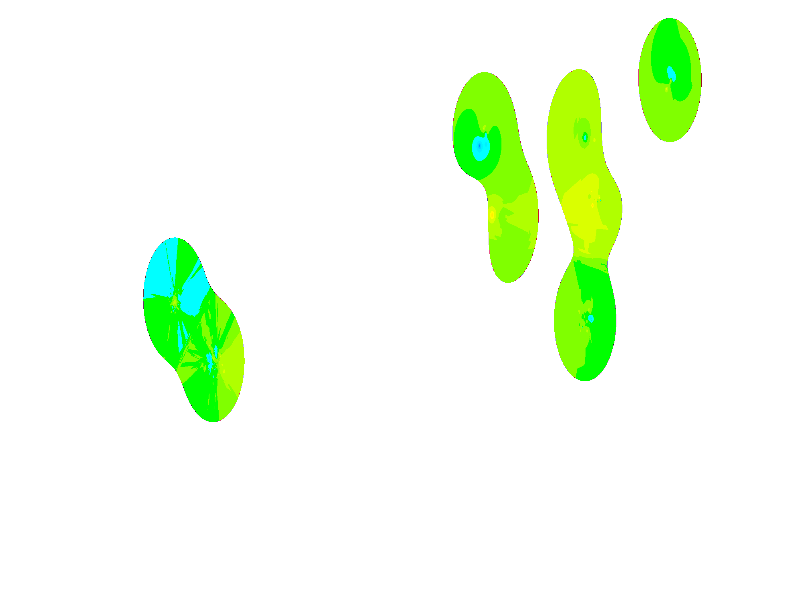
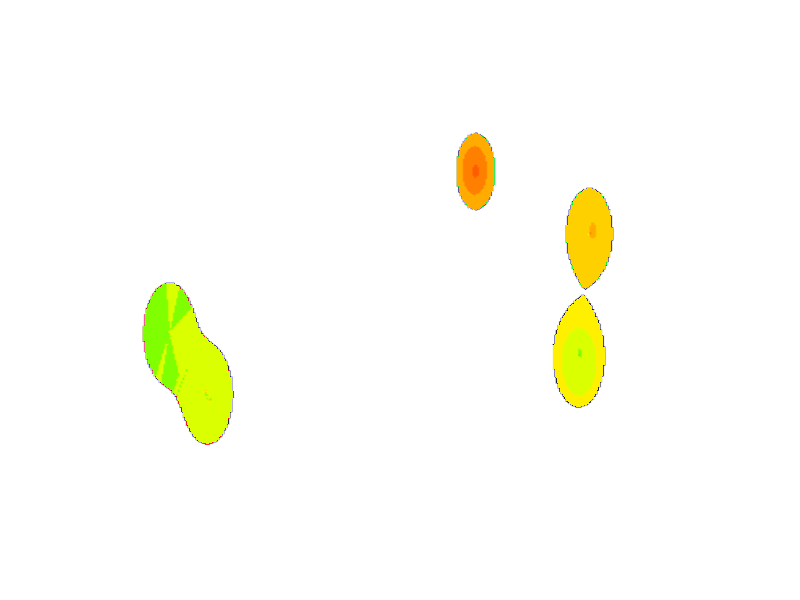
Added support for category search and talking with dynamodb

Changed region(s): [[0.5625, 0.12, 0.7812, 0.69], [0.1562, 0.39, 0.3125, 0.75], [0.7812, 0.03, 0.875, 0.24]]

diff --git a/django_basic/mysite/yelpviz/templates/yelpviz/map.html b/django_basic/mysite/yelpviz/templates/yelpviz/map.html
@@ -48,18 +48,18 @@
         // the bounds of the image, and a reference to the map.
         overlay = new USGSOverlay(bounds, srcImage, window.map);
 
-    	// Adding a marker on Las Vegas
-    	//var myLatlng = new google.maps.LatLng(36.125,-115.175);	 
-           	//var contentString = 'Las Vegas, NV';
-    	//var infowindow = new google.maps.InfoWindow({
-    	//	content: contentString
-    	//});
+    	// // Adding a marker on Las Vegas
+    	// var myLatlng = new google.maps.LatLng(36.125,-115.175);	 
+     //       	var contentString = 'Las Vegas, NV';
+    	// var infowindow = new google.maps.InfoWindow({
+    	// 	content: contentString
+    	// });
     	
-    	//var marker = new google.maps.Marker({
-    	//	position: myLatlng,
-    	//	map: window.map,
-    	//	title: 'Las Vegas'
-    	//});
+    	// var marker = new google.maps.Marker({
+    	// 	position: myLatlng,
+    	// 	map: window.map,
+    	// 	title: 'Las Vegas'
+    	// });
     	//google.maps.event.addListener(marker, 'click', function(){
     	//	infowindow.open(window.map,marker);
     	//)};
@@ -168,6 +168,26 @@
           <select class="form-control" name="business">
             <option value="McDonald''s">McDonald's</option>
             <option value="Supercuts">Supercuts</option>
+          </select>
+          <select class="form-control" name="scale">
+            <option value="0.5">0.5</option>
+            <option value="0.75">0.75</option>
+            <option value="1.0">1.0</option>
+          </select>
+        </div>
+        <button type="submit" class="btn btn-default">Submit</button>
+      </form>
+      <p class="navbar-text">Select Business Category</p>
+      <form class="navbar-form navbar-left" role="search" action="/yelpviz/csearch" method="GET">
+        <div class="form-group">
+          <select class="form-control" name="business_category">
+            <option value="McDonald''s">McDonald's</option>
+            <option value="Supercuts">Supercuts</option>
+          </select>
+          <select class="form-control" name="scale">
+            <option value="0.5">0.5</option>
+            <option value="0.75">0.75</option>
+            <option value="1.0">1.0</option>
           </select>
         </div>
         <button type="submit" class="btn btn-default">Submit</button>

diff --git a/django_basic/mysite/yelpviz/views.py b/django_basic/mysite/yelpviz/views.py
@@ -2,6 +2,7 @@ from django.http import HttpResponse
 from django.shortcuts import render
 from django.shortcuts import render_to_response
 import sys
+from dynamo_connect import Dynamo
 
 import os
 os.environ['LD_LIBRARY_PATH'] = '/usr/lib/oracle/11.2/client64/lib/'
@@ -16,10 +17,25 @@ rds_port =     1521
 rds_dsn =      cx_Oracle.makedsn(rds_host, 1521, rds_sid)
 rds_conn_str = rds_username + '/' + rds_password + '@' + rds_dsn
 
-def index(request):
+def bsearch(request):
 	#how to access form data
 	if request.method == 'GET':
 		print request.GET.get('business')
+		print request.GET.get('scale')
+	
+	#logic for connecting to the dynamodb and getting the image
+	dydb = Dynamo()
+	#hash_key will be business name, range_key is scaling factor
+	heat_map = dydb.get_map(table='Business', hash_key='1', range_key='0.5')
+	if heat_map == None:
+		#code for generating map on the fly and adding map to dynamo
+		#need to turn the map generation code into a class with a method for this
+		#someone else who is more familiar with that code should do this - Dave
+		print "hi"
+	else:
+		f = open('/home/ec2-user/yelp_data_visualization/django_basic/mysite/yelpviz/static/yelpviz/tmp.png', 'wb')
+		f.write(heat_map)
+		f.close()
 
 	#con = cx_Oracle.connect(rds_conn_str)
 	#ur = con.cursor()
@@ -36,6 +52,28 @@ def index(request):
 	#return HttpResponse(resp)
 	return render_to_response("yelpviz/map.html")
 
+def csearch(request):
+	#how to access form data
+	if request.method == 'GET':
+		print request.GET.get('business_category')
+		print request.GET.get('scale')
+	
+	#logic for connecting to the dynamodb and getting the image
+	dydb = Dynamo()
+	#hash_key will be business name, range_key is scaling factor
+	heat_map = dydb.get_map(table='Business_Category', hash_key='1', range_key='0.5')
+	if heat_map == None:
+		#code for generating map on the fly and adding map to dynamo
+		#need to turn the map generation code into a class with a method for this
+		#someone else who is more familiar with that code should do this - Dave
+		print "hi"
+	else:
+		f = open('/home/ec2-user/yelp_data_visualization/django_basic/mysite/yelpviz/static/yelpviz/tmp.png', 'wb')
+		f.write(heat_map)
+		f.close()
+
+	#return HttpResponse(resp)
+	return render_to_response("yelpviz/map.html")
 
 def home(request):
 	return render_to_response("yelpviz/map.html")

diff --git a/django_basic/mysite/yelpviz/dynamo_connect.py b/django_basic/mysite/yelpviz/dynamo_connect.py
@@ -1,0 +1,35 @@
+import os
+from base64 import b64encode, b64decode
+import boto
+from boto.dynamodb2.table import Table
+
+class Dynamo:
+
+    def __init__(self):
+        self.conn = None
+        try:
+            self.conn = boto.connect_dynamodb(aws_access_key_id=os.environ.get('aws_access'), aws_secret_access_key=os.environ.get('aws_secret'))
+        except:
+            print "Error while attempting to connect to dynamo"
+
+    def add_map(self, table, hash_key, range_key, map_data):
+        try:
+            table = self.conn.get_table(table)
+            item_data={'map': b64encode(map_data)}
+            user = table.new_item(hash_key=hash_key, range_key=range_key, attrs=item_data)
+            user.put()
+            return True
+        except:
+            print "Error while adding item to dynamo"
+            return False
+
+    def get_map(self, table, hash_key, range_key):
+        try:
+            table = self.conn.get_table(table)
+            item = table.get_item(hash_key=hash_key, range_key=range_key, attributes_to_get=['map'])
+            heat_map = item['map']
+            return b64decode(heat_map)
+        except:
+            print "Error while retrieving item from dynamo"
+            return None
+

diff --git a/django_basic/mysite/yelpviz/sample_dynamo_connect.py b/django_basic/mysite/yelpviz/sample_dynamo_connect.py
@@ -1,0 +1,28 @@
+import os
+from base64 import b64encode, b64decode
+import boto
+from boto.dynamodb2.table import Table
+from dynamo_connect import Dynamo
+
+conn = Dynamo()
+
+f = open('tmp.png', 'rb')
+img_data = f.read()
+f.close()
+
+conn.add_map(table='Business', hash_key='2', range_key='0.5', map_data=img_data)
+heat_map = conn.get_map(table='Business', hash_key='2', range_key='0.5')
+
+#print conn.describe_table('Business')
+#table = conn.get_table('Business')
+#item_data={'map': b64encode(img_data)}
+#user = table.new_item(hash_key='1', range_key='0.5', attrs=item_data)
+#user.put()
+
+#item = table.get_item(hash_key='1', range_key='0.5', attributes_to_get=['map'])
+#heat_map = item['map']
+#heat_map = b64decode(heat_map)
+
+f = open('tmp2.png', 'wb')
+f.write(heat_map)
+f.close()

diff --git a/django_basic/mysite/yelpviz/urls.py b/django_basic/mysite/yelpviz/urls.py
@@ -4,5 +4,6 @@ from yelpviz import views
 
 urlpatterns = patterns('',
     url(r'^$', views.home, name='home'),
-    url(r'^bsearch$', views.index, name='index'),
+    url(r'^bsearch$', views.bsearch, name='bsearch'),
+    url(r'^csearch$', views.csearch, name='csearch'),
 )
